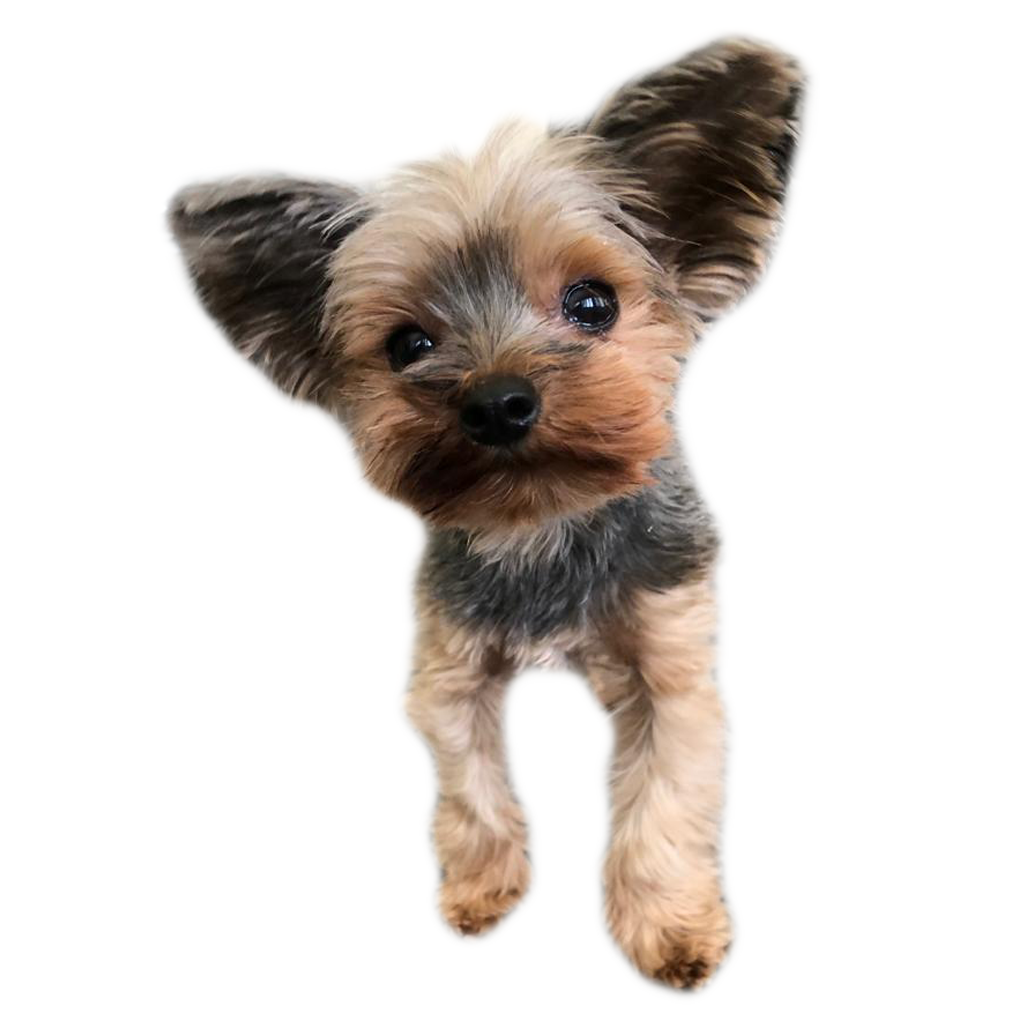
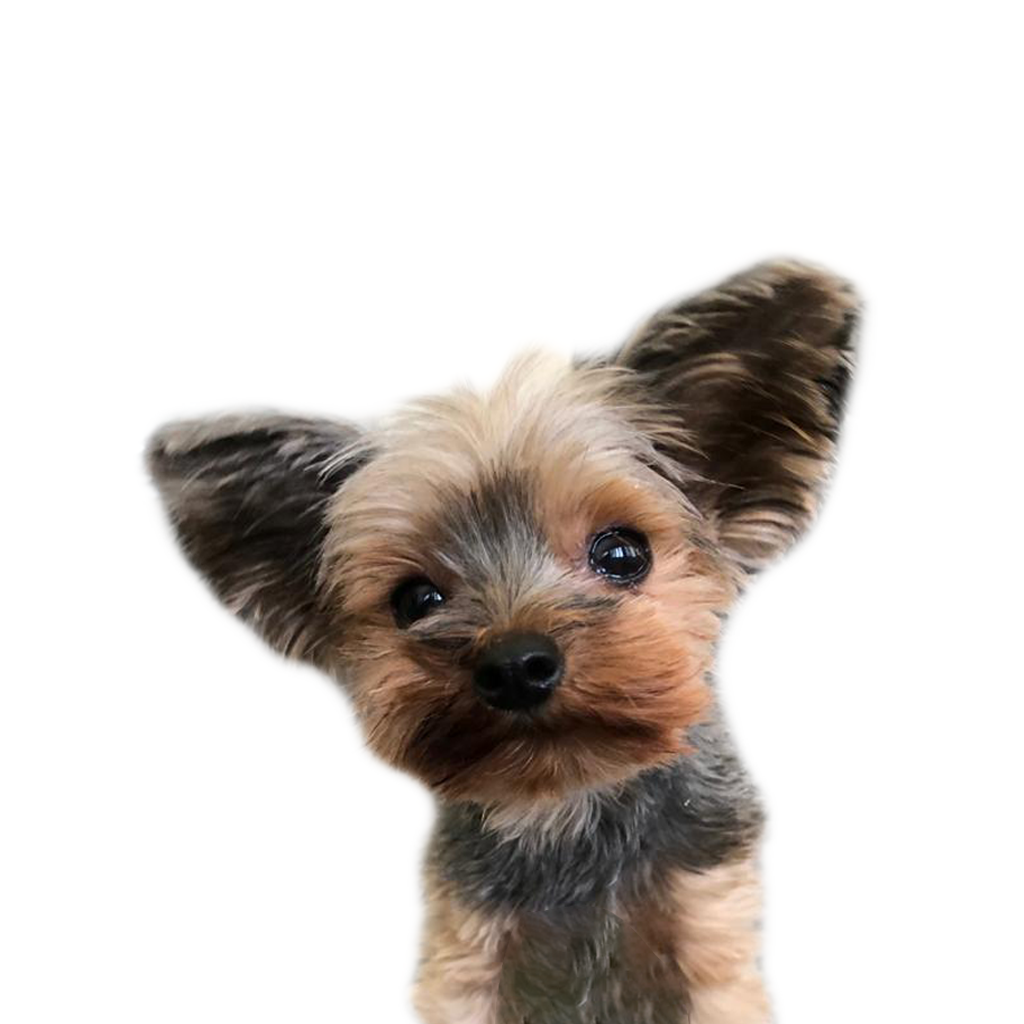
tiny head change

diff --git a/src/routes/+page.svelte b/src/routes/+page.svelte
@@ -36,12 +36,24 @@
 	section {
 		align-items: center;
 		padding-bottom: 0;
+		flex-direction: column;
+		@media (min-width: 798px) {
+			flex-direction: row;
+		}
 		& div {
 			flex: 1;
-			min-width: 320px;
 			&:last-child {
-				display: none;
+				background: #ffe5ec;
+				transform: scale(0.8);
+				border-radius: 50%;
+				aspect-ratio: 1 / 1;
+				order: -1;
 				@media (min-width: 798px) {
+					order: 1;
+				}
+				& img:last-child {
+					border-radius: 50%;
+					margin: 0;
 					display: block;
 				}
 			}

diff --git a/src/routes/+layout.svelte b/src/routes/+layout.svelte
@@ -130,6 +130,8 @@
 		background: white;
 		box-shadow: 0px 2px 4px rgba(0, 0, 0, 0.1);
 		flex-direction: column;
+		z-index: 99;
+
 		& .menu-items-mobile {
 			display: flex;
 			flex-flow: column;
